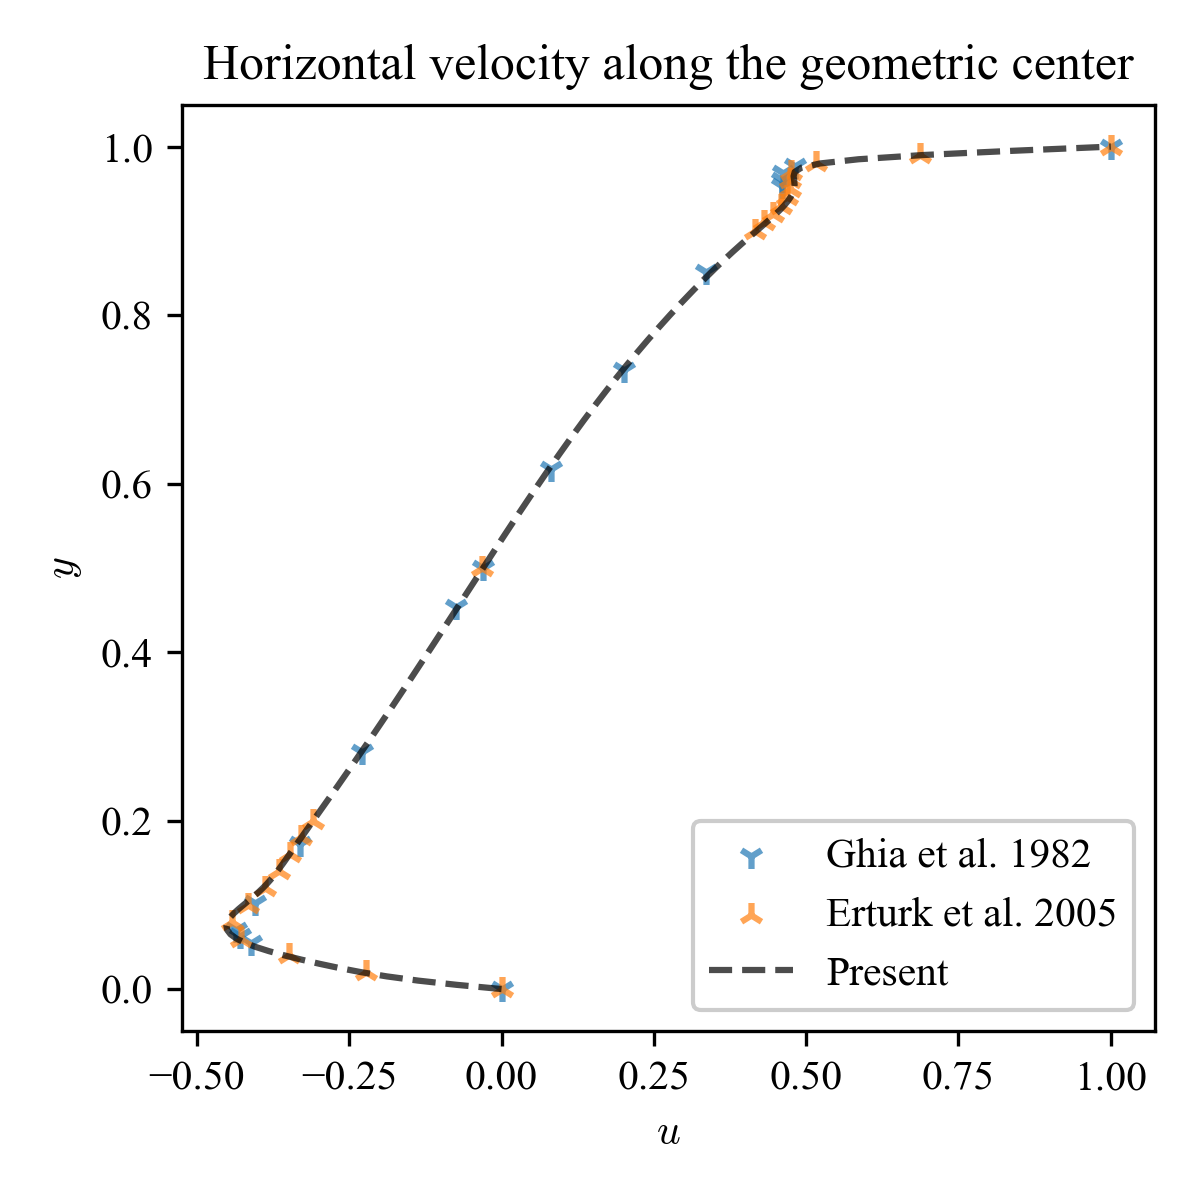
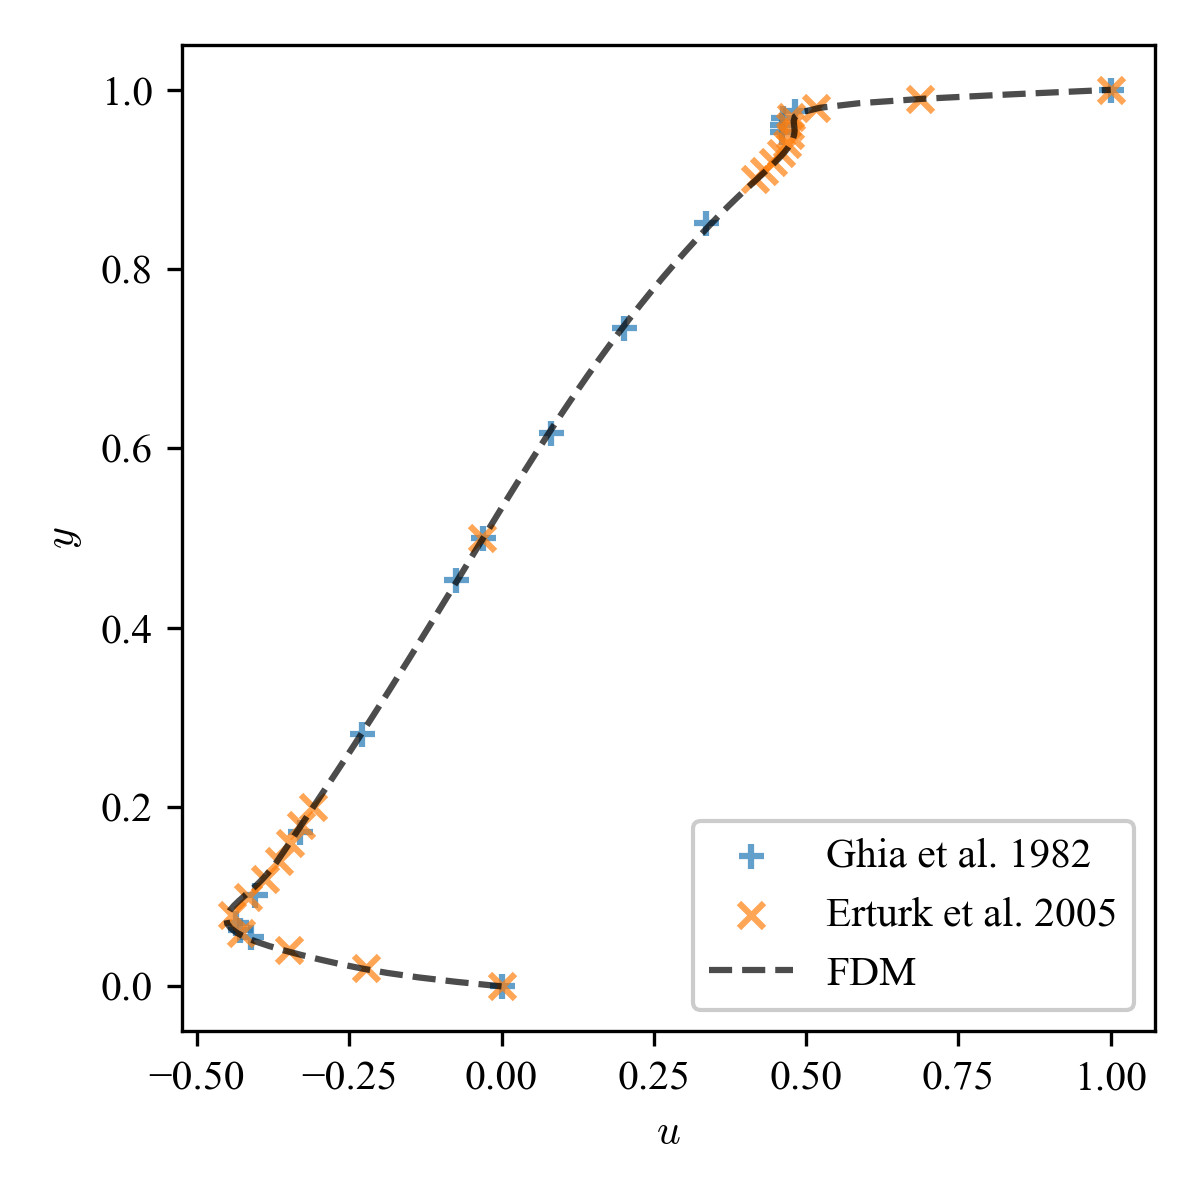
update vorticity figs

diff --git a/01_Arakawa_B/04_Kawamura_Kuwahara/main.py b/01_Arakawa_B/04_Kawamura_Kuwahara/main.py
@@ -35,7 +35,7 @@ parser.add_argument("-r", "--Re", type=float, default=1000., help="Reynolds numb
 parser.add_argument("-t", "--time", type=float, default=200., help="maximum simulation time")
 parser.add_argument("-u", "--u_tol", type=float, default=1e-8, help="convergence tolerance for velocity")
 parser.add_argument("-p", "--p_tol", type=float, default=1e-5, help="convergence tolerance for pressure")
-parser.add_argument("-i", "--it_max", type=int, default=int(1e4), help="maximum iteration for PPE")
+parser.add_argument("-i", "--it_max", type=int, default=int(5e3), help="maximum iteration for PPE")
 args = parser.parse_args()
 
 
@@ -105,9 +105,9 @@ def Jacobi(p, b, dx, dy, nx, ny, it_max, tol):
         p[-1, :] = p[-2, :]   # North
         p[:,  0] = p[:,  1]   # West
         p[:, -1] = p[:, -2]   # East
-        p[0, int(nx / 2)] = 0.   # bottom center
+        # p[0, int(nx / 2)] = 0.   # bottom center
         # p[1, int(Nx / 2)] = 0.   # bottom center
-        # p[1, 1] = 0.   # bottom left corner
+        p[1, 1] = 0.   # bottom left corner
 
         # converged?
         p_res = np.sqrt(np.sum((p - p_old)**2)) / np.sqrt(np.sum(p_old**2))
@@ -185,7 +185,9 @@ def main():
     dir_fig_velocity_u = os.path.join(dir_res, "velocity_u")
     dir_fig_velocity_v = os.path.join(dir_res, "velocity_v")
     dir_fig_divergence_hat = os.path.join(dir_res, "divergence_hat")
+    dir_fig_streamline = os.path.join(dir_res, "streamline")
     dir_fig_pressure = os.path.join(dir_res, "pressure")
+    dir_fig_pressure_bar = os.path.join(dir_res, "pressure_bar")
     dir_fig_divergence = os.path.join(dir_res, "divergence")
     dir_fig_vorticity = os.path.join(dir_res, "vorticity")
     dir_fig_u = os.path.join(dir_res, "u")
@@ -195,7 +197,9 @@ def main():
     os.makedirs(dir_fig_velocity_u, exist_ok=True)
     os.makedirs(dir_fig_velocity_v, exist_ok=True)
     os.makedirs(dir_fig_divergence_hat, exist_ok=True)
+    os.makedirs(dir_fig_streamline, exist_ok=True)
     os.makedirs(dir_fig_pressure, exist_ok=True)
+    os.makedirs(dir_fig_pressure_bar, exist_ok=True)
     os.makedirs(dir_fig_divergence, exist_ok=True)
     os.makedirs(dir_fig_vorticity, exist_ok=True)
     os.makedirs(dir_fig_u, exist_ok=True)
@@ -276,7 +280,7 @@ def main():
             plt.ylim(0., Ly)
             plt.xlabel(r"$x$")
             plt.ylabel(r"$y$")
-            plt.title(f"Velocity norm ($\mathrm{{Re}}={Re}, t={t:.2f}, \mathrm{{res}}={u_res:.2e}$)")
+            # plt.title(f"Velocity norm ($\mathrm{{Re}}={Re}, t={t:.2f}, \mathrm{{res}}={u_res:.2e}$)")
             plt.tight_layout()
             plt.savefig(os.path.join(dir_res, f"velocity_norm.png"), dpi=300)
             plt.savefig(os.path.join(dir_fig_velocity_norm, f"velocity_norm_n{n:d}.png"), dpi=300)
@@ -292,7 +296,7 @@ def main():
             plt.ylim(0., Ly)
             plt.xlabel(r"$x$")
             plt.ylabel(r"$y$")
-            plt.title(f"Horizontal velocity ($\mathrm{{Re}}={Re}, t={t:.2f}$)")
+            # plt.title(f"Horizontal velocity ($\mathrm{{Re}}={Re}, t={t:.2f}$)")
             plt.tight_layout()
             plt.savefig(os.path.join(dir_res, f"velocity_u.png"), dpi=300)
             plt.savefig(os.path.join(dir_fig_velocity_u, f"velocity_u_n{n:d}.png"), dpi=300)
@@ -308,7 +312,7 @@ def main():
             plt.ylim(0., Ly)
             plt.xlabel(r"$x$")
             plt.ylabel(r"$y$")
-            plt.title(f"Vertical velocity ($\mathrm{{Re}}={Re}, t={t:.2f}$)")
+            # plt.title(f"Vertical velocity ($\mathrm{{Re}}={Re}, t={t:.2f}$)")
             plt.tight_layout()
             plt.savefig(os.path.join(dir_res, f"velocity_v.png"), dpi=300)
             plt.savefig(os.path.join(dir_fig_velocity_v, f"velocity_v_n{n:d}.png"), dpi=300)
@@ -324,7 +328,7 @@ def main():
             plt.ylim(0., Ly)
             plt.xlabel(r"$x$")
             plt.ylabel(r"$y$")
-            plt.title(f"Divergence of intermediate velocity ($\mathrm{{Re}}={Re}, t={t:.2f}$)")
+            # plt.title(f"Divergence of intermediate velocity ($\mathrm{{Re}}={Re}, t={t:.2f}$)")
             plt.tight_layout()
             plt.savefig(os.path.join(dir_res, f"divergence_hat.png"), dpi=300)
             plt.savefig(os.path.join(dir_fig_divergence_hat, f"divergence_hat_n{n:d}.png"), dpi=300)
@@ -342,9 +346,10 @@ def main():
             plt.ylim(0., Ly)
             plt.xlabel(r"$x$")
             plt.ylabel(r"$y$")
-            plt.title(f"Streamline, ($\mathrm{{Re}}={Re}, t={t:.2f}$)")
+            # plt.title(f"Streamline, ($\mathrm{{Re}}={Re}, t={t:.2f}$)")
             plt.tight_layout()
             plt.savefig(os.path.join(dir_res, f"streamline.png"), dpi=300)
+            plt.savefig(os.path.join(dir_fig_streamline, f"streamline_n{n:d}.png"), dpi=300)
             plt.close()
 
             # # divergence & vorticity (for Arakawa A-type grid)
@@ -375,7 +380,7 @@ def main():
             plt.ylim(0., Ly)
             plt.xlabel(r"$x$")
             plt.ylabel(r"$y$")
-            plt.title(f"Divergence ($\mathrm{{Re}}={Re}, t={t:.2f}$)")
+            # plt.title(f"Divergence ($\mathrm{{Re}}={Re}, t={t:.2f}$)")
             plt.tight_layout()
             plt.savefig(os.path.join(dir_res, f"divergence.png"), dpi=300)
             plt.savefig(os.path.join(dir_fig_divergence, f"divergence_n{n:d}.png"), dpi=300)
@@ -390,13 +395,13 @@ def main():
             vmin, vmax = -5., 5.
             levels = np.linspace(vmin, vmax, 32)
             ticks = np.linspace(vmin, vmax, 5)
-            plt.contourf(X[:-1, :-1] + dx / 2., Y[:-1, :-1] + dy / 2., vor_u, cmap="coolwarm", levels=levels, extend="both")
+            plt.contour(X[:-1, :-1] + dx / 2., Y[:-1, :-1] + dy / 2., vor_u, cmap="seismic", levels=levels, extend="both")
             plt.colorbar(ticks=ticks, extend="both", label=r"$\omega$")
             plt.xlim(0., Lx)
             plt.ylim(0., Ly)
             plt.xlabel(r"$x$")
             plt.ylabel(r"$y$")
-            plt.title(f"Vorticity ($\mathrm{{Re}}={Re}, t={t:.2f}$)")
+            # plt.title(f"Vorticity ($\mathrm{{Re}}={Re}, t={t:.2f}$)")
             plt.tight_layout()
             plt.savefig(os.path.join(dir_res, f"vorticity.png"), dpi=300)
             plt.savefig(os.path.join(dir_fig_vorticity, f"vorticity_n{n:d}.png"), dpi=300)
@@ -406,13 +411,30 @@ def main():
             vmin, vmax = -.1, .1
             levels = np.linspace(vmin, vmax, 32)
             ticks = np.linspace(vmin, vmax, 5)
-            plt.contourf(X[:-1, :-1], Y[:-1, :-1], p - np.mean(p), cmap="turbo", levels=levels, extend="both")
+            p_bar = p - np.mean(p)
+            plt.contourf(X[:-1, :-1], Y[:-1, :-1], p_bar, cmap="turbo", levels=levels, extend="both")
             plt.colorbar(ticks=ticks, extend="both", label=r"$p$")
             plt.xlim(0., Lx)
             plt.ylim(0., Ly)
             plt.xlabel(r"$x$")
             plt.ylabel(r"$y$")
-            plt.title(f"Pressure ($\mathrm{{Re}}={Re}, t={t:.2f}$)")
+            # plt.title(f"Pressure ($\mathrm{{Re}}={Re}, t={t:.2f}$)")
+            plt.tight_layout()
+            plt.savefig(os.path.join(dir_res, f"pressure_bar.png"), dpi=300)
+            plt.savefig(os.path.join(dir_fig_pressure_bar, f"pressure_bar_n{n:d}.png"), dpi=300)
+            plt.close()
+
+            plt.figure(figsize=(5, 4))
+            vmin, vmax = -.1, .1
+            levels = np.linspace(vmin, vmax, 32)
+            ticks = np.linspace(vmin, vmax, 5)
+            plt.contourf(X[:-1, :-1], Y[:-1, :-1], p, cmap="turbo", levels=levels, extend="both")
+            plt.colorbar(ticks=ticks, extend="both", label=r"$p$")
+            plt.xlim(0., Lx)
+            plt.ylim(0., Ly)
+            plt.xlabel(r"$x$")
+            plt.ylabel(r"$y$")
+            # plt.title(f"Pressure ($\mathrm{{Re}}={Re}, t={t:.2f}$)")
             plt.tight_layout()
             plt.savefig(os.path.join(dir_res, f"pressure.png"), dpi=300)
             plt.savefig(os.path.join(dir_fig_pressure, f"pressure_n{n:d}.png"), dpi=300)
@@ -420,26 +442,26 @@ def main():
 
             # compare with reference solutions
             plt.figure(figsize=(4, 4))
-            plt.scatter(df_Ghia["u"],   df_Ghia["y"],   alpha=.7, marker="1", label="Ghia et al. 1982")
-            plt.scatter(df_Erturk["u"], df_Erturk["y"], alpha=.7, marker="2", label="Erturk et al. 2005")
-            plt.plot(u[1:-1, int(Ny/2)], y[1:-1], alpha=.7, color="k", ls="--", label="Present")
+            plt.scatter(df_Ghia["u"],   df_Ghia["y"],   alpha=.7, marker="+", label="Ghia et al. 1982")
+            plt.scatter(df_Erturk["u"], df_Erturk["y"], alpha=.7, marker="x", label="Erturk et al. 2005")
+            plt.plot(u[1:-1, int(Ny/2)], y[1:-1], alpha=.7, color="k", ls="--", label="FDM")
             plt.legend(loc="lower right")
             plt.xlabel(r"$u$")
             plt.ylabel(r"$y$")
-            plt.title(f"Horizontal velocity along the geometric center")
+            # plt.title(f"Horizontal velocity along the geometric center")
             plt.tight_layout()
             plt.savefig(os.path.join(dir_res, f"u.png"), dpi=300)
             plt.savefig(os.path.join(dir_fig_u, f"u_n{n:d}.png"), dpi=300)
             plt.close()
 
             plt.figure(figsize=(4, 4))
-            plt.scatter(df_Ghia["x"],   df_Ghia["v"],   alpha=.7, marker="1", label="Ghia et al. 1982")
-            plt.scatter(df_Erturk["x"], df_Erturk["v"], alpha=.7, marker="2", label="Erturk et al. 2005")
-            plt.plot(x[1:-1], v[int(Nx/2), 1:-1], alpha=.7, color="k", ls="--", label="Present")
+            plt.scatter(df_Ghia["x"],   df_Ghia["v"],   alpha=.7, marker="+", label="Ghia et al. 1982")
+            plt.scatter(df_Erturk["x"], df_Erturk["v"], alpha=.7, marker="x", label="Erturk et al. 2005")
+            plt.plot(x[1:-1], v[int(Nx/2), 1:-1], alpha=.7, color="k", ls="--", label="FDM")
             plt.legend(loc="upper right")
             plt.xlabel(r"$x$")
             plt.ylabel(r"$v$")
-            plt.title(f"Vertical velocity along the geometric center")
+            # plt.title(f"Vertical velocity along the geometric center")
             plt.tight_layout()
             plt.savefig(os.path.join(dir_res, f"v.png"), dpi=300)
             plt.savefig(os.path.join(dir_fig_v, f"v_n{n:d}.png"), dpi=300)
@@ -450,7 +472,7 @@ def main():
     os.makedirs(dir_npz, exist_ok=True)
     np.savez(
         os.path.join(dir_npz, "results.npz"),
-        x=x, y=y, X=X, Y=Y, u=u, v=v, p=p
+        x=x, y=y, X=X, Y=Y, u=u, v=v, p=p, p_bar=p_bar, div_u=div_u, vor_u=vor_u,
     )
 
 ################################################################################
